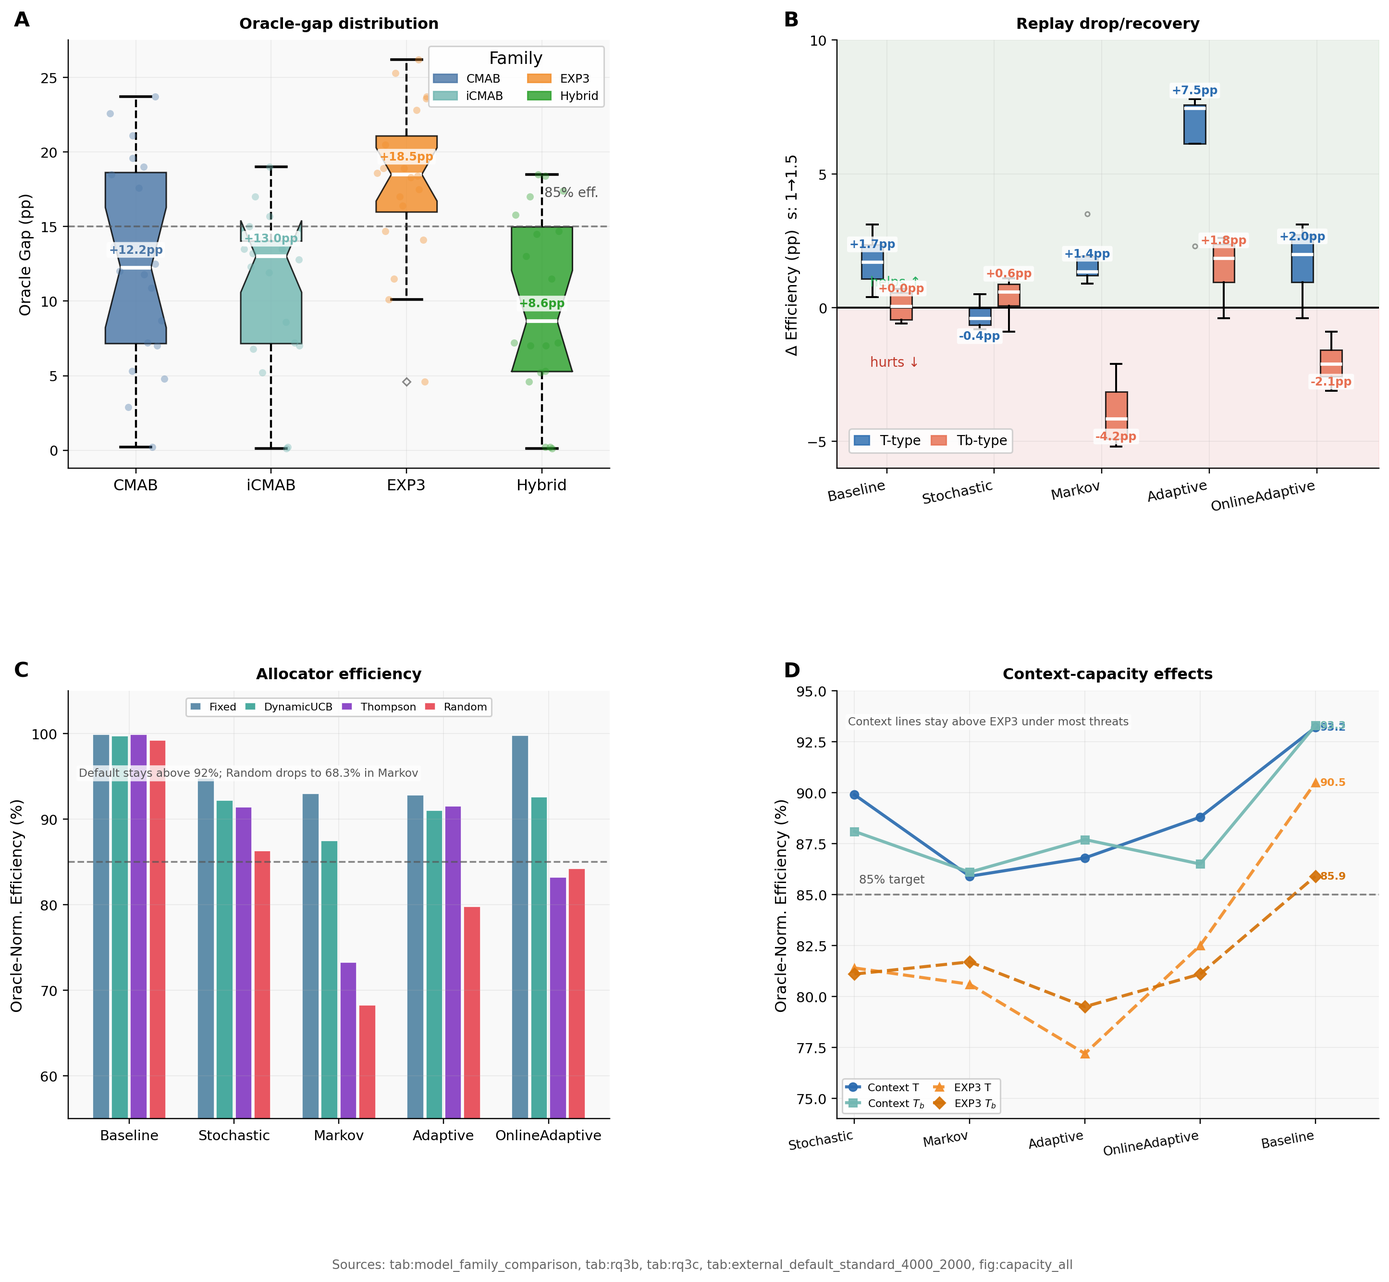
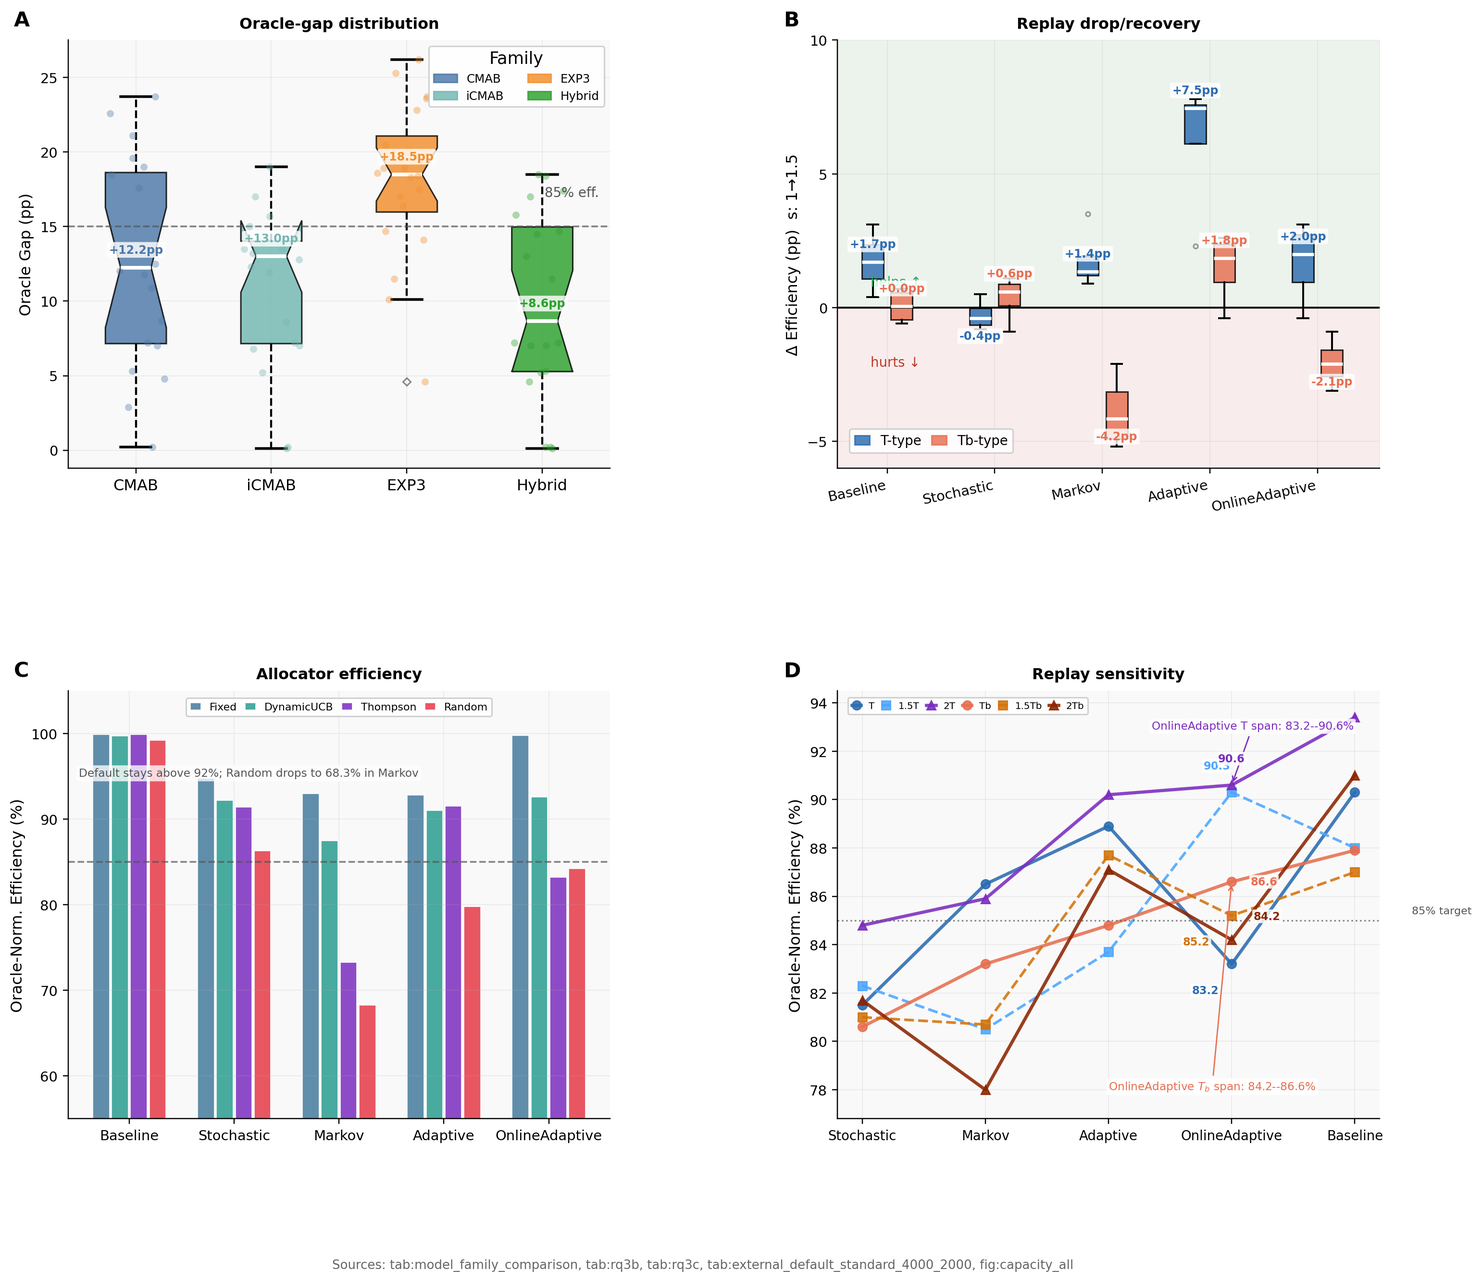
Consolidate appendix duplicate figures

diff --git a/ICNP_VENUE_PREP/APPENDIX_DIAGNOSTIC_FIGURES.tex b/ICNP_VENUE_PREP/APPENDIX_DIAGNOSTIC_FIGURES.tex
@@ -3,28 +3,10 @@
 
 This appendix collects diagnostic figures that complement the main Results figures without duplicating plots already used in the paper body. The main paper keeps the claim-level figures, while the appendix preserves additional evidence for readers who want broader scenario, capacity, allocator, and cross-testbed views.
 
-\subsection{Original Replay-Configuration Sensitivity Line View}
-\label{app:replay_sensitivity_line_view}
-
-\Cref{fig:appendix_replay_sensitivity_line_view} preserves the original line rendering of the main-body Replay-Configuration Sensitivity panel in \Cref{fig:capacity_paradox_all_configs_main}. It uses the same validated six replay configurations and preserves the same trend: replay scale, replay anchoring, and threat regime jointly determine whether added replay helps or hurts.
-
-\begin{figure*}[!t]
-\centering
-\textbf{Replay-Configuration Sensitivity}\\[0.25em]
-\includegraphics[width=0.98\textwidth]{figures/icnp/ICNP-CODE-035_g9_network_gap_analysis_panel_f_capacity_paradox_all_6_replay_configs_sc.png}
-\caption{Original line rendering of the main-body Replay-Configuration
-Sensitivity panel. The values validate that under OnlineAdaptive,
-$T$-type replay spans 83.2--90.6\%, while $T_b$-type replay spans
-84.2--86.6\%, confirming that replay capacity must be interpreted jointly with
-anchoring rule and threat regime.}
-\label{fig:appendix_replay_sensitivity_line_view}
-\end{figure*}
-\clearpage
-
 \subsection{Additional Claim Support}
 \label{app:checkpoint_claim_support}
 
-The following figures provide supporting views for claims that are central to the paper but too detailed for the main Results flow. They extend the main-body evidence in \Cref{fig:cross_testbed_confirmation,fig:capacity_paradox,fig:deployment_guidance} by showing contextual-versus-EXP3 Oracle-gap behavior, capacity sensitivity, and threat-conditioned deployment structure in more detail. Specifically, \Cref{fig:appendix_context_vs_exp3_gap,fig:appendix_context_capacity_effects,fig:appendix_threat_rules} connect the appendix images to the Oracle-gap, capacity-control, and threat-conditioned deployment claims.
+The following figures provide supporting views for claims that are central to the paper but too detailed for the main Results flow. They extend the main-body evidence in \Cref{fig:cross_testbed_confirmation,fig:capacity_paradox,fig:deployment_guidance} by showing contextual-versus-EXP3 Oracle-gap behavior, the retained context-capacity interaction, and threat-conditioned deployment structure in more detail. \Cref{fig:appendix_g8_advanced_synthesis} now carries the replay-configuration sensitivity view in Panel~(D), replacing the duplicate context-capacity panel that previously appeared in the grouped synthesis figure.
 
 \begin{figure}[H]
 \centering
@@ -46,11 +28,11 @@ noise to adaptive interference.}
 \centering
 \textbf{Context-Capacity Interaction}\\[-0.0em]
 \includegraphics[width=\columnwidth]{figures/icnp/ICNP-CODE-053_fig6_context_capacity.png}
-\caption{Replay and capacity changes produce policy-dependent efficiency shifts:
-some context-aware settings improve, while others expose larger drops under the
-same capacity change. This supports the RQ3b capacity-paradox claim that replay
-scale acts as a threat- and model-conditioned control variable, linking the main
-capacity-paradox result to the policy-family robustness hierarchy.}
+\caption{Context-aware capacity variants remain above EXP3-style baselines in
+most threat regimes, while non-context variants expose larger threat-conditioned
+losses. This retained standalone view preserves the context-capacity evidence
+from the former grouped Panel~(D) after that panel was repurposed for
+replay-configuration sensitivity.}
 \label{fig:appendix_context_capacity_effects}
 \end{figure}
 
@@ -73,7 +55,7 @@ settings to the active threat regime.}
 \subsection{Grouped Synthesis Diagnostics}
 \label{app:grouped_synthesis_diagnostics}
 
-The grouped synthesis figure below remains in the appendix because it combines multiple diagnostic views without repeating the specific G9 panels now used in the main body. \Cref{fig:appendix_g8_advanced_synthesis} serves as the appendix-side reference point when readers want one grouped view of how the detailed diagnostics connect.
+The grouped synthesis figure below remains in the appendix because it combines multiple diagnostic views without repeating standalone appendix figures. \Cref{fig:appendix_g8_advanced_synthesis} serves as the appendix-side reference point when readers want one grouped view of how the detailed diagnostics connect, including the original replay-configuration sensitivity line view in Panel~(D).
 
 \begin{figure*}[ht!]
 \centering
@@ -91,8 +73,9 @@ weaker baselines. Panel~(B) shows the capacity-paradox pattern: intermediate
 replay scale produces the weakest robustness, while larger scale recovers
 performance in this threat configuration. Panel~(C) shows that allocator choice
 changes both average efficiency and tail behavior, making allocation policy part
-of the robustness mechanism. Panel~(D) shows that contextual capacity variants
-stay above EXP3-style baselines across most threat regimes. Together, the panels
+of the robustness mechanism. Panel~(D) preserves the original
+replay-configuration sensitivity view: under OnlineAdaptive, $T$-type replay
+spans 83.2--90.6\%, while $T_b$-type replay spans 84.2--86.6\%. Together, the panels
 show that routing robustness is governed by the interaction among policy family,
 replay/capacity setting, allocator choice, and threat regime.}
 % \shee{Isn't Fig 13D the same as Fig. 8a?} -- SOLVED: Kept this appendix figure as a four-panel diagnostic synthesis and removed the rendered feedback marker from the caption.

diff --git a/ICNP_VENUE_PREP/DISCUSSION.tex b/ICNP_VENUE_PREP/DISCUSSION.tex
@@ -3,7 +3,7 @@
 % \devroop{go over this and rewrite as needed} -- SOLVED: Rewrote the Discussion as a concise synthesis of the validated Results claims and removed rendered audit text.
 
 Across corpus and external testbeds, pursuit-based hybrids consistently define the strongest efficiency--stability frontier, while adversarial-first baselines and poorly matched allocators expose lower robustness floors under structured and adaptive disruption. Our results show that routing robustness under compound uncertainty is jointly determined by \emph{policy context}, \emph{allocator choice}, and \emph{replay-capacity semantics}.
-% The appendix provides further details regarding these summarized findings. \Cref{tab:testbed_comparison_full,tab:model_family_comparison_full} report the per-configuration cross-testbed and model-family results supporting the robustness hierarchy, while \Cref{fig:appendix_context_vs_exp3_gap,fig:appendix_context_capacity_effects,fig:appendix_threat_rules,fig:appendix_g8_advanced_synthesis} give additional diagnostics for Oracle-gap behavior, capacity sensitivity, deployment rules, and grouped claim interactions.
+% The appendix provides further details regarding these summarized findings. \Cref{tab:testbed_comparison_full,tab:model_family_comparison_full} report the per-configuration cross-testbed and model-family results supporting the robustness hierarchy, while \Cref{fig:appendix_context_vs_exp3_gap,fig:appendix_context_capacity_effects,fig:appendix_threat_rules,fig:appendix_g8_advanced_synthesis} give additional diagnostics for Oracle-gap behavior, context-capacity behavior, deployment rules, replay sensitivity, and grouped claim interactions.
 The appendix \Cref{tab:model_family_comparison_full} shows \texttt{iCPursuitNeuralUCB} leading the internal model-family ranking with 90.9\% average efficiency, ahead of \texttt{GNeuralUCB} (89.0\%), and \texttt{EXPNeuralUCB} (88.4\%), establishing pursuit mechanisms as the 1--3 pp differentiator within the neural-hybrid family. Similarly, \Cref{tab:testbed_comparison_full} shows that this aggregate advantage generalizes across external testbeds: \texttt{iCPursuitNeuralUCB} achieves the highest average efficiency on \paperTwo (74.5\%), \paperSeven (78.0\%), \paperTwelve (44.1\%), and \paperEight (67.9\%). While \texttt{EXPNeuralUCB} wins more configurations on \paperEight, \texttt{iCPursuitNeuralUCB} maintains higher average efficiency (67.9\% vs.\ 61.9\%), showing more consistent performance across allocator and capacity settings. Both tables support the main hierarchy: pursuit-informed neural designs provide the strongest average robustness.
 
 % The appendix validates neural hybrid performance in detail. Neural hybrids achieve 
@@ -12,7 +12,7 @@ The appendix \Cref{tab:model_family_comparison_full} shows \texttt{iCPursuitNeur
 % confirming context-awareness provides substantial advantage. Under attacks, they sustain 
 % 5--10 pp Oracle gaps versus 20--40 pp for adversarial-first methods 
 % \Cref{fig:appendix_context_vs_exp3_gap}, defining the stability frontier. The capacity 
-% paradox—22--38 pp degradation under Adaptive threats \Cref{fig:appendix_context_capacity_effects}—shows 
+% paradox—threat-conditioned replay sensitivity in \Cref{fig:appendix_g8_advanced_synthesis}—shows
 % predictability, not bandwidth, limits robustness. \Cref{fig:appendix_threat_rules} maps 
 % threat-responsive allocator rules, while \Cref{fig:appendix_g8_advanced_synthesis} 
 % synthesizes how algorithm, allocator, and capacity jointly determine worst-case performance.

diff --git a/figures/icnp-exported-assets/build_G8_G9.py b/figures/icnp-exported-assets/build_G8_G9.py
@@ -1,7 +1,7 @@
 #!/usr/bin/env python3
 """Build G8 and G9 advanced result figures for the ICNP paper.
 
-G8 — 4-panel gap synthesis (family gap, capacity paradox, allocator, testbed)
+G8 — 4-panel gap synthesis (family gap, capacity paradox, allocator, replay sensitivity)
 G9 — 9-panel networking performance & gap analysis
      (fidelity decay, qubit budget, Oracle-gap bars, RQ1 tiers,
       threat escalation heatmap, capacity paradox lines,
@@ -590,9 +590,10 @@ def build_G8():
     panel_label(axC,'C','Allocator Efficiency per Scenario (iCPursuitNeuralUCB)')
     panel_subtitle(axC, 'Allocator efficiency')
 
-    # D — context-capacity detail replacing duplicate cross-testbed content
-    draw_context_capacity_panel(axD)
-    panel_subtitle(axD, 'Context-capacity effects')
+    # D — replay-configuration sensitivity retained after standalone duplicate removal
+    draw_capacity_all_configs_panel(axD, include_panel_label=False)
+    panel_label(axD, 'D', 'Replay-Configuration Sensitivity')
+    panel_subtitle(axD, 'Replay sensitivity')
 
     fig.subplots_adjust(top=0.96)
     fig.text(0.5,-0.008,

diff --git a/ICNP_VENUE_PREP/RESULTS_VALIDATED_STAGING.tex b/ICNP_VENUE_PREP/RESULTS_VALIDATED_STAGING.tex
@@ -148,7 +148,7 @@ depending on the active threat.
   \begin{minipage}{0.45\textwidth}
   \centering
   \hspace{3.7em}\textbf{Compact Capacity-Paradox Summary}\\[-0.0em]
-  \includegraphics[width=\linewidth]{figures/icnp/ICNP-CODE-039_g1_capacity_paradox.png}
+  \includegraphics[height=1.75in,keepaspectratio]{figures/icnp/ICNP-CODE-039_g1_capacity_paradox.png}
   \end{minipage}}
 \hfill
 \subfloat[Across the six replay configurations, replay semantics changes the
@@ -159,7 +159,7 @@ must be interpreted jointly with anchoring rule and threat regime.
   \begin{minipage}{0.52\textwidth}
   \centering
   \textbf{Replay-Configuration Sensitivity}\\[0.0em]
-  \includegraphics[width=\linewidth]{figures/icnp/ICNP-CODE-073_fig6b_replay_configuration_sensitivity_bar_alternative.png}
+  \includegraphics[height=1.75in,keepaspectratio]{figures/icnp/ICNP-CODE-073_fig6b_replay_configuration_sensitivity_bar_alternative.png}
   \end{minipage}}
 \caption{Panels~(a) and~(b) jointly show that replay capacity acts as a
 threat-conditioned control variable governed by replay scale, anchoring rule,

diff --git a/ICNP_VENUE_PREP/HIGH_PRIORITY_REVIEW_BACKLOG.md b/ICNP_VENUE_PREP/HIGH_PRIORITY_REVIEW_BACKLOG.md
@@ -40,12 +40,12 @@ It intentionally does **not** replace `ICNP_DRAFT_AUDIT_TODO.md`; that file rema
 | H9 | H | Final rendered-marker/source sweep. | **Final-gate / blocked** | Feedback markers may still be useful while advisors are commenting. User explicitly said source sweep should wait until everyone is done commenting. | Do only after advisors/reviewers confirm commenting is done. Convert or remove rendered markers before final submission. |
 | H10 | H | Cross-testbed/new testbed integration in the paper. | **Done in active source, pending reviewer acceptance** | Active draft includes `ICNP_VENUE_PREP/RESULTS_VALIDATED_CROSS_TESTBED`; abstract also states cross-testbed evaluation on three external quantum-network simulators. | Do not reopen unless review-panel comments or advisor feedback ask for changes. |
 | H11 | H | Maintain GitHub/Overleaf sync discipline. | **Done currently / monitor** | Latest Overleaf branch checked is identical to `main`; AGENTS.md says to compare Overleaf branches before overwriting. | Continue comparing before force-syncing or overwriting Overleaf changes. |
-| H12 | H | May 22 transcript: reference the moved framework figure and add a Replay-Configuration Sensitivity bar alternative. | **Done in active source** | Transcript requested a brief Introduction reference to the moved framework figure, a separate appendix description, proper appendix figure/table references, and a bar version of the Replay-Configuration Sensitivity panel for feedback. The bar rendering is now promoted to main-body Figure 6B, while the original line rendering is retained in the appendix. | Monitor only unless advisors request the line rendering back in the main body. |
+| H12 | H | May 22 transcript: reference the moved framework figure and add a Replay-Configuration Sensitivity bar alternative. | **Done in active source** | Transcript requested a brief Introduction reference to the moved framework figure, a separate appendix description, proper appendix figure/table references, and a bar version of the Replay-Configuration Sensitivity panel for feedback. The bar rendering is now promoted to main-body Figure 6B, the original replay line rendering is retained inside grouped appendix Panel D, and the standalone Context-Capacity Interaction figure is kept as the non-duplicate context-capacity copy. | Monitor only unless advisors request the line rendering back in the main body. |
 | H13 | H | Approve surgical space-recovery cuts. | **Open / approval queue ready** | Quick sweep documented approval-ready remove/replace candidates in `ICNP_VENUE_PREP/SPACE_RECOVERY_CANDIDATE_SWEEP.md`; no manuscript prose was changed in this sweep. | Review the candidate list and approve cuts in order: low-risk source/caption cuts first, then medium-risk compression, then page-end compression if still needed. |
 
 ## May 22 transcript-derived next items
 
-- **Done in this lane:** brief Introduction reference to the moved framework schematic; separate appendix description for the schematic; appendix figure/table connector references; Replay-Configuration Sensitivity bar chart promoted to the main body, with the original line rendering retained in the appendix.
+- **Done in this lane:** brief Introduction reference to the moved framework schematic; separate appendix description for the schematic; appendix figure/table connector references; Replay-Configuration Sensitivity bar chart promoted to the main body; original replay line rendering retained inside grouped synthesis Panel D; standalone replay duplicate removed; standalone Context-Capacity Interaction retained.
 - **Next space-recovery item:** review `ICNP_VENUE_PREP/SPACE_RECOVERY_CANDIDATE_SWEEP.md` and approve which exact remove/replace proposals should be implemented.
 - **Next validation item:** inspect Overleaf warning panel after the GitHub sync/recompile and record only real warnings or regressions in `BUILD_VALIDATION_LOG.md`.
 - **Next visual item:** inspect appendix float order after the image swap; fix only if ordering or readability is harmed.

diff --git a/ICNP_VENUE_PREP/FIGURE_SELECTION_AUDIT.md b/ICNP_VENUE_PREP/FIGURE_SELECTION_AUDIT.md
@@ -55,16 +55,16 @@ These figures were added after checking the second-checkpoint archive for append
 | Appendix image | Rationale |
 |---|---|
 | `figures/icnp/ICNP-CODE-032_g9_network_gap_analysis_panel_c_oracle_gap_context_vs_exp3_by_scenario_c.png` | Supports the contextual-versus-EXP3 robustness contrast under matched threat/capacity variation. |
-| `figures/icnp/ICNP-CODE-053_fig6_context_capacity.png` | Supports the context-capacity interaction and capacity-sensitivity claims. |
+| `figures/icnp/ICNP-CODE-053_fig6_context_capacity.png` | Retained standalone context-capacity evidence after the duplicate grouped Panel D was replaced. |
 | `figures/icnp/ICNP-CODE-056_fig10_threat_rules.png` | Supports scenario-conditioned deployment guidance and threat-rule interpretation. |
 
 ### Grouped synthesis and diagnostics
 
 | Appendix image | Rationale |
 |---|---|
-| `figures/icnp/ICNP-CODE-024_g8_advanced_4panel_grouped_full_figure.png` | Dense synthesis of oracle gaps, capacity effects, allocator efficiency, and contextual-capacity behavior. |
+| `figures/icnp/ICNP-CODE-024_g8_advanced_4panel_grouped_full_figure.png` | Dense synthesis of oracle gaps, capacity effects, allocator efficiency, and replay-configuration sensitivity. |
 | `figures/icnp/ICNP-CODE-029_g9_network_gap_analysis_grouped_full_figure.png` | Broad diagnostic suite for path/fidelity, allocator budgets, threat escalation, capacity sensitivity, scenario penalties, allocator risk, and cross-testbed behavior. |
-| `figures/icnp/ICNP-CODE-035_g9_network_gap_analysis_panel_f_capacity_paradox_all_6_replay_configs_sc.png` | Detailed support for the capacity-paradox claim beyond the compact main figure. |
+| `figures/icnp/ICNP-CODE-035_g9_network_gap_analysis_panel_f_capacity_paradox_all_6_replay_configs_sc.png` | Source panel folded into grouped synthesis Panel D rather than kept as a standalone appendix duplicate. |
 | `figures/icnp/ICNP-CODE-036_g9_network_gap_analysis_panel_g_scenario_penalty_vs_baseline_by_algorith.png` | Detailed support for threat penalty and robustness-floor analysis. |
 | `figures/icnp/ICNP-CODE-037_g9_network_gap_analysis_panel_h_allocator_risk_floor_mean_peak_icpursuit.png` | Detailed support for allocator risk and deployment guidance. |
 | `figures/icnp/ICNP-CODE-034_g9_network_gap_analysis_panel_e_threat_escalation_heatmap_algo_scenario.png` | Diagnostic heatmap behind threat-escalation claims. |
@@ -80,10 +80,11 @@ Detailed Cross-Testbed and Model-Family Results
 Additional Diagnostic Figures
   - Second-Checkpoint Claim Support
   - Grouped Synthesis Diagnostics
-  - Detailed Supporting Diagnostics
 ```
 
 The full result tables were reformatted with fixed-width columns, tighter spacing, concise testbed descriptors, and takeaway rows to prevent overflow and make the appendix presentable under IEEE layout.
+
+The standalone replay-sensitivity line plot was consolidated on May 22: the grouped synthesis Panel D now carries the replay-configuration sensitivity view, while the standalone Context-Capacity Interaction figure remains as the kept context-capacity evidence.
 
 ## Excluded from main paper for now
 

diff --git a/ICNP_VENUE_PREP/ACTIVE_FEEDBACK_RESOLUTION_LOG.md b/ICNP_VENUE_PREP/ACTIVE_FEEDBACK_RESOLUTION_LOG.md
@@ -2,6 +2,14 @@
 
 This log records feedback-resolution batches applied to the active ICNP venue draft. It complements the per-section audit notes and follows the repository process in `AGENTS.md`: identify the owning file, make the smallest safe change, preserve validated content, and keep reviewer feedback traceable as LaTeX source comments with `SOLVED` explanations.
 
+## Batch: May 22 appendix duplicate-figure consolidation
+
+- **Owning files changed:** `ICNP_VENUE_PREP/APPENDIX_DIAGNOSTIC_FIGURES.tex`, `ICNP_VENUE_PREP/RESULTS_VALIDATED_STAGING.tex`, `ICNP_VENUE_PREP/DISCUSSION.tex`, `figures/icnp-exported-assets/build_G8_G9.py`, `ICNP_VENUE_PREP/FIGURE_SELECTION_AUDIT.md`
+- **Regenerated asset:** `figures/icnp/ICNP-CODE-024_g8_advanced_4panel_grouped_full_figure.png`
+- **Reason for batching:** The appendix had duplicate capacity/replay diagnostics. The previous grouped synthesis Panel D duplicated the standalone Context-Capacity Interaction figure, so Panel D was repurposed to carry the original Replay-Configuration Sensitivity line view while the standalone context-capacity evidence was retained.
+- **Change:** Removed the standalone replay-sensitivity line figure, retained the standalone Context-Capacity Interaction figure as the kept copy, updated grouped synthesis Panel D/caption/context to the replay-sensitivity view, and set the two main-body Figure 6 panels to matching image heights.
+- **Validation:** Full LaTeX compile passed with no unresolved references; PDF is 16 pages total. Main-body page 7 and appendix pages 12--14 were rendered and visually inspected.
+
 ## Batch: May 22 replay-sensitivity image swap
 
 - **Owning files changed:** `ICNP_VENUE_PREP/RESULTS_VALIDATED_STAGING.tex`, `ICNP_VENUE_PREP/APPENDIX_DIAGNOSTIC_FIGURES.tex`, `ICNP_VENUE_PREP/HIGH_PRIORITY_REVIEW_BACKLOG.md`

diff --git a/ICNP_VENUE_PREP/BUILD_VALIDATION_LOG.md b/ICNP_VENUE_PREP/BUILD_VALIDATION_LOG.md
@@ -2,6 +2,29 @@
 
 This log records non-destructive Overleaf/PDF validation for `ICNP_2026_venue_draft.tex`.
 
+## Validation pass: May 22 appendix duplicate-figure consolidation
+
+- **Date:** 2026-05-22
+- **Active draft:** `ICNP_2026_venue_draft.tex`
+- **Purpose:** Validate removal of the duplicate standalone replay figure, retention of the standalone context-capacity figure, and replacement of grouped synthesis Panel D with the replay-sensitivity line view.
+
+What was checked:
+
+- [x] Latest GitHub paper state pulled before editing (`633590f`, `Swap replay sensitivity figures`).
+- [x] `figures/icnp-exported-assets/build_G8_G9.py` compiles in the `.quantum` environment.
+- [x] Grouped synthesis asset regenerated from source code, not manual PNG editing.
+- [x] Removed label `fig:appendix_replay_sensitivity_line_view` has no remaining active references.
+- [x] Full draft compiled locally with `latexmk -pdf -interaction=nonstopmode -halt-on-error ICNP_2026_venue_draft.tex`.
+- [x] No unresolved references remained in the final LaTeX log.
+- [x] Generated PDF is 16 pages total.
+- [x] Main-body Figure 6 page and appendix diagnostic pages were rendered and visually inspected.
+
+Observed outcome:
+
+- Main-body Figure 6 keeps the bar-based replay-sensitivity panel and now uses matching subfigure image heights.
+- Appendix grouped synthesis Panel D now preserves the replay-configuration sensitivity line view.
+- Standalone replay sensitivity was removed as a duplicate, while standalone Context-Capacity Interaction was retained as the kept context-capacity evidence.
+
 ## Validation pass: May 22 replay-sensitivity image swap
 
 - **Date:** 2026-05-22
